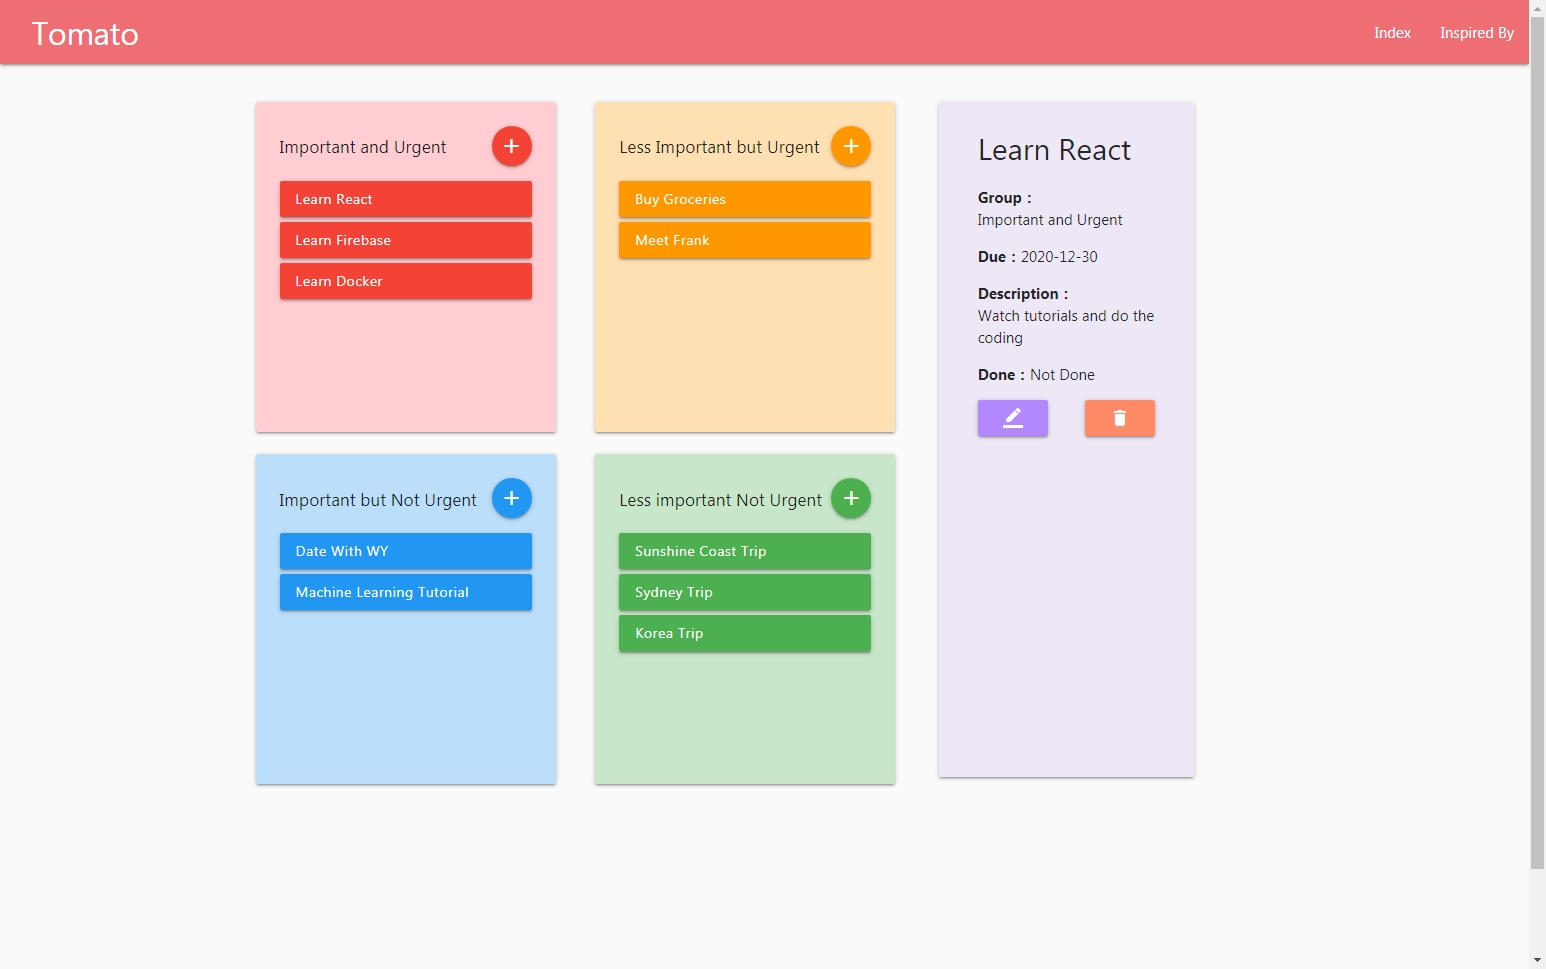
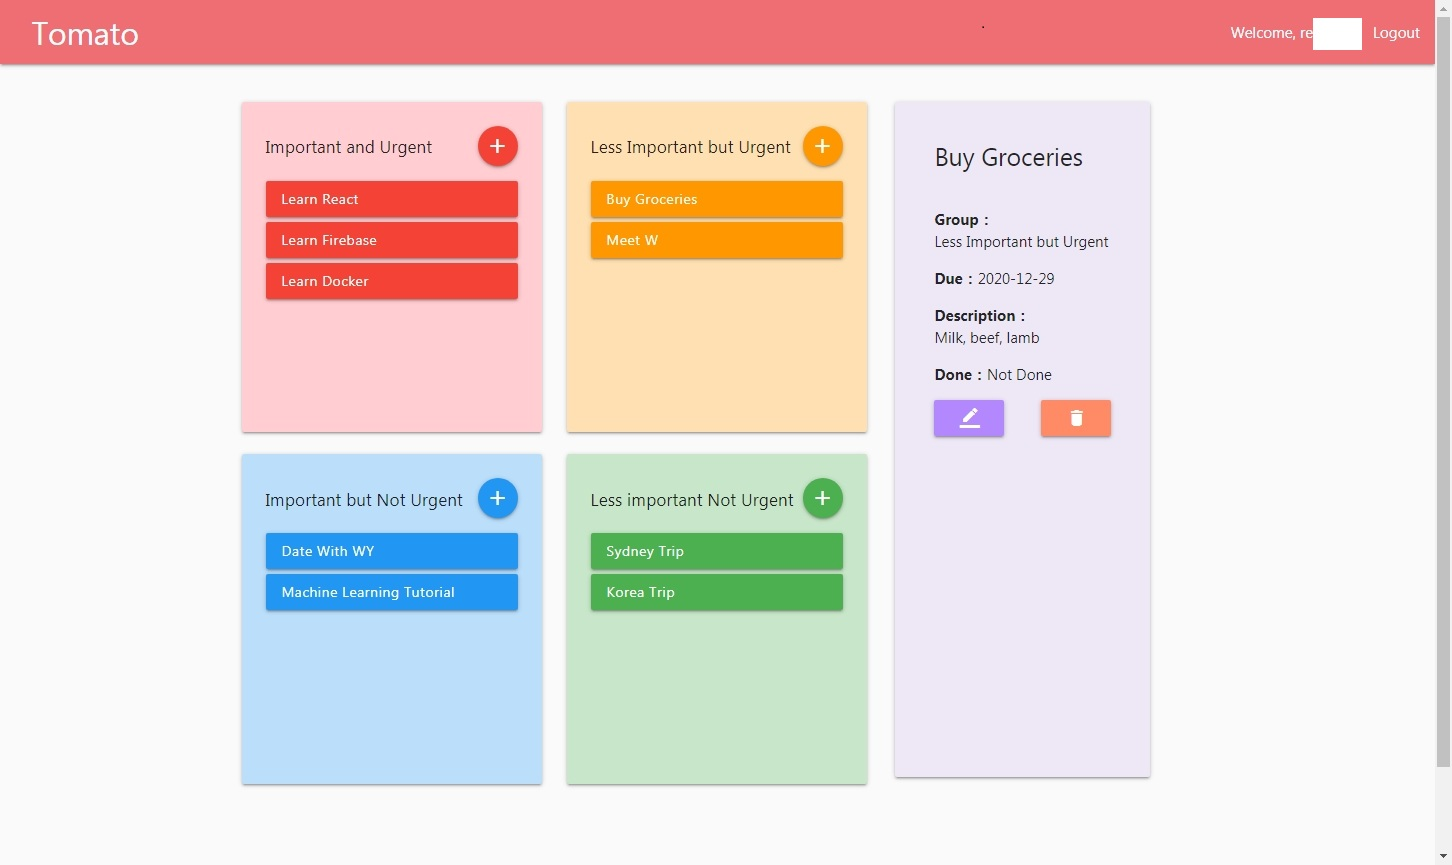
project image

Changed region(s): [[0.0, 0.0, 0.9917, 0.9364], [0.9917, 0.874, 1.0, 0.9052], [0.9917, 0.0, 1.0, 0.0312]]

diff --git a/src/content/data.js b/src/content/data.js
@@ -281,8 +281,15 @@ export const project = [
     link: 'https://tomatolist.herokuapp.com/',
     image: ['tomato.jpg'],
     description:
-      "The app is inspired by Alex Czarto's theory, The Four Quadrants of Time Management, which categorize one's future tasks into quadrants in order to have better time management.",
-    keyword: ['MongoDb', 'Express', 'React', 'NodeJS', 'Materializecss'],
+      "The app is inspired by Alex Czarto's theory, The Four Quadrants of Time Management, which categorize one's future tasks into quadrants in order to have better time management. This app also uses Auth0 for user authentication, but for demonstration purposes I didn't set any page protected.",
+    keyword: [
+      'MongoDb',
+      'Express',
+      'React',
+      'NodeJS',
+      'Materializecss',
+      'auth0',
+    ],
   },
   {
     title: 'Personal Website',

diff --git a/README.md b/README.md
@@ -11,3 +11,4 @@ Steps to run:
 ### To be done
 
 - Add Google Analytics
+- Is it possible to let viewers to send messages to my google sheet?
